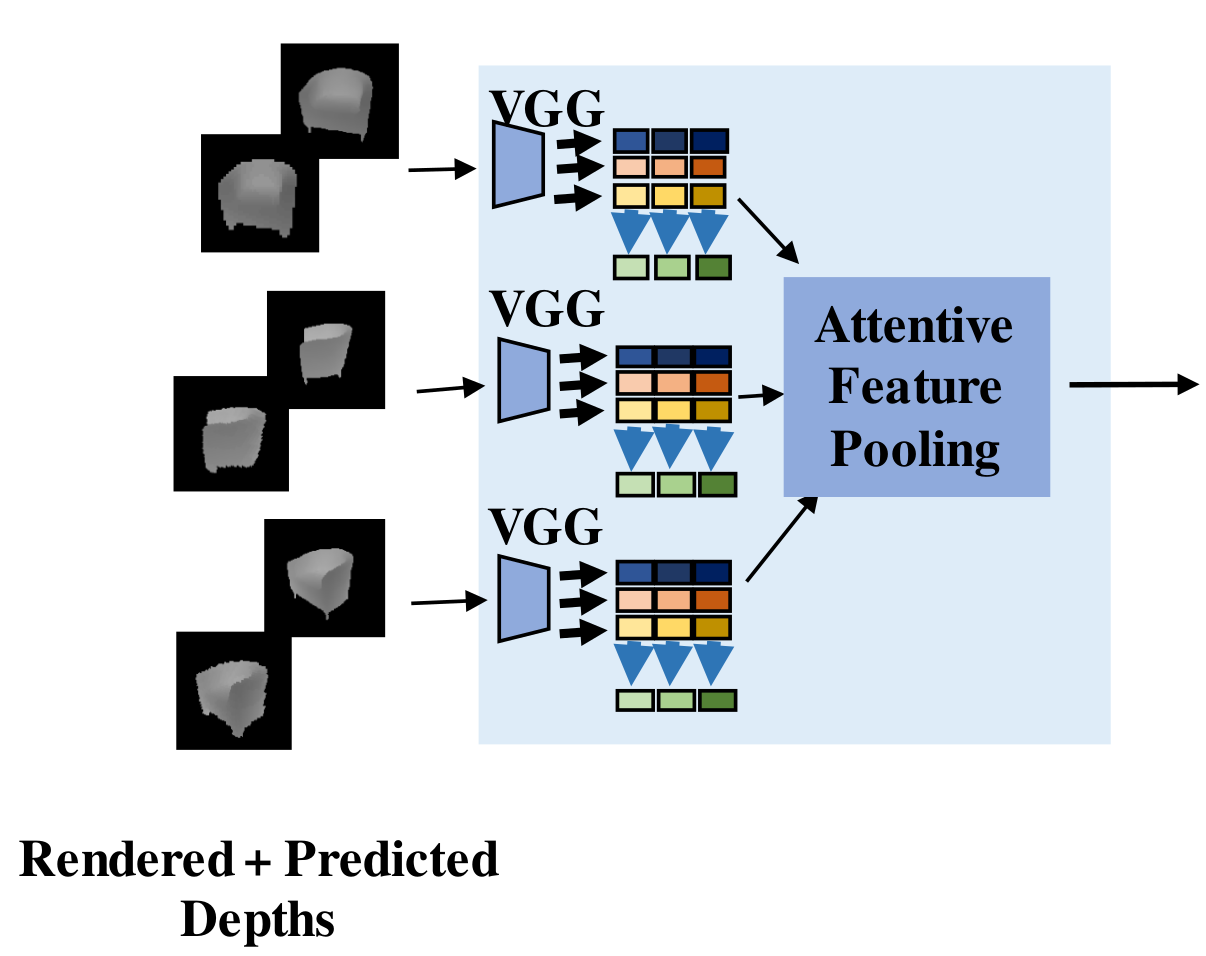
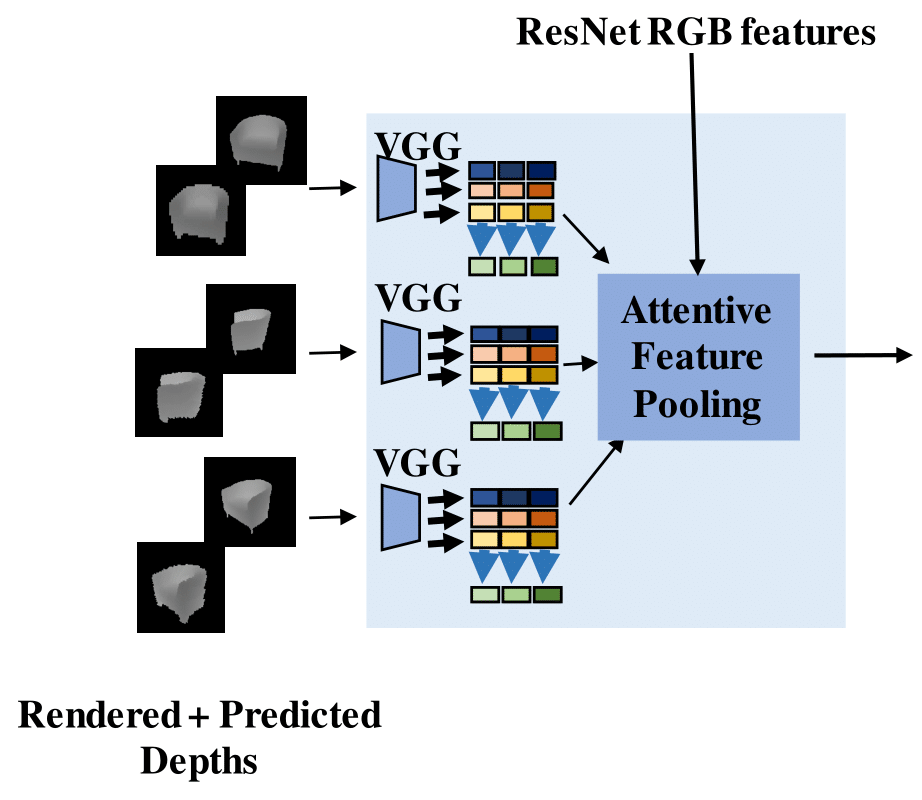
moved/expanded depth prediction paragraph
- plus updated imgs/contrastive_feature_extractor.png

Changed region(s): [[0.1215, 0.0, 1.0, 0.8125], [0.0, 0.875, 0.4252, 1.0]]

diff --git a/body/method.tex b/body/method.tex
@@ -55,7 +55,26 @@ The final voxel probability $x$ is obtained by applying the inverse function of 
 \subsection{Mesh Refinement}
 \label{subsec:mesh_refinement}
 \siyu{Present a figure to explain the detailed mechanism of the mesh refinement module.}
-The \texttt{cubified} mesh from the voxel branch only provides a coarse reconstruction of the object's surface. We apply graph convolutional networks which represent each mesh vertex as one graph node and deforms them to more accurate positions.
+\rakesh{I think the system architecture diagram and constrastive feature extraction diagram presents most of the details except graph convolution network and attention implementation. Do we want to show GCN and attention details in figures?}
+The \texttt{cubified} mesh from the voxel branch only provides a coarse reconstruction of the object's surface. We apply graph convolutional networks which represent each mesh vertex as one graph node and deforms them to more accurate positions based on RGB and contrastive depth features.
+
+\label{subsec:depth_prediction}
+\paragraph{Multi-View Depth Estimation}
+\siyu{In order to explain how can we obtain the initial depth images as the input, this paragraph should be put in front of the ``Mesh Refinement'' section, or the front of the ``3. Methodology''. We donot have to mention the details of MVS-Net, while some implementation details, like the view selection mechanism, resolution, network structure design, any difference from the standard MVS-Net or Cas-MVSNet.}
+\rakesh{Paragraph moved to start of ``Mesh Refinement'' subsection. More details added}
+We extend MVSNet~\cite{yao2018mvsnet} and predict the depth maps of all views since the original implementation predicts depth of only one reference view.
+This is achieved by transforming the feature volumes to each view's coordinate frame using homography warping
+and applying identical cost volume regularization and depth regression on each view.
+Detailed network architecture diagram of this module is provided in the appendix.
+Unlike~\cite{yao2018mvsnet}, we do not apply input image view selection and use the input views from~\cite{3dr2n2,wen2019pixel2mesh++} for fair comparison.
+We set the number of depth hypothesis to $48$ which is equivalent to $25$ mm resolution.
+\siyu{Do we have to add an experiment and compare the results give different settings of MVS-Net, such as the resolution of the depth images or we can add some noise to the depth. That is to study the effect of the quality of the depth on the final mesh reconstruction results and how sensitive is the refinement module to the depth quality.}
+
+% which constructs a regularized 3D cost volumes
+% to estimate the depth map of the reference view.
+% Here, we extend MVSNet to predict the depth maps of all views instead of only the reference view.
+
+% This allows the reuse of pre-regularization feature volumes for efficient multi-view depth prediction invariant to the order of input images.
 
 \paragraph{GCN-based Mesh Deformation}
 \siyu{The intuition and basic operations of graph-cnn-based mesh deformation should be given first. Then, how does the previous approach obtain the features. Any limitations and problems of the previous approaches?}
@@ -79,7 +98,7 @@ Each GCN block utilizes several graph convolutions to transform the vertex featu
     \vspace{-4mm}
         \caption{Contrastive feature extraction. Rendered depths of the current shape along with the predicted depths for each view are concatenated and VGG-based feature extractor is applied. The multi-view features are pooled using attentive feature pooling and used by GCN for deforming the shape}
         \vspace{-4mm}
-        \label{fig:failure_cases}
+        \label{fig:contrastive_feature_extractor}
 \end{figure}
 
 \cite{yao2020front2back} demonstrate that using intermediate, image-centric 2.5D representations instead of directly generating 3D shapes in global frame from raw 2D images can improve 3D reconstruction quality.
@@ -96,21 +115,6 @@ We use VGG-16~\cite{simonyan2014vgg} as our contrastive depth feature extraction
 % and allows the network to reason about the deformation required better than when using predicted depths alone.
 % Multiple methods for augmenting the two depths were tried among which using concatenated rendered and predicted depth as input for depth feature extraction gave the best result.
 % Along with the contrastive depth features, we also use the RGB features from ResNet calculated for voxel branch as input for mesh deformation as well.
-
-\label{subsec:depth_prediction}
-\paragraph{Multi-View Depth Estimation}
-\siyu{In order to explain how can we obtain the initial depth images as the input, this paragraph should be put in front of the ``Mesh Refinement'' section, or the front of the ``3. Methodology''. We donot have to mention the details of MVS-Net, while some implementation details, like the view selection mechanism, resolution, network structure design, any difference from the standard MVS-Net or Cas-MVSNet.}
-We extend MVSNet~\cite{yao2018mvsnet} and predict the depth maps of all views since the original implementation predicts depth of only one reference view.
-This is achieved by transforming the feature volumes to each view's coordinate frame using homography warping
-and applying identical cost volume regularization and depth regression on each view.
-Detailed network architecture diagram of this module is provided in the appendix.
-\siyu{Do we have to add an experiment and compare the results give different settings of MVS-Net, such as the resolution of the depth images or we can add some noise to the depth. That is to study the effect of the quality of the depth on the final mesh reconstruction results and how sensitive is the refinement module to the depth quality.}
-
-% which constructs a regularized 3D cost volumes
-% to estimate the depth map of the reference view.
-% Here, we extend MVSNet to predict the depth maps of all views instead of only the reference view.
-
-% This allows the reuse of pre-regularization feature volumes for efficient multi-view depth prediction invariant to the order of input images.
 
 \begin{figure*}[t]
 \begin{center}
